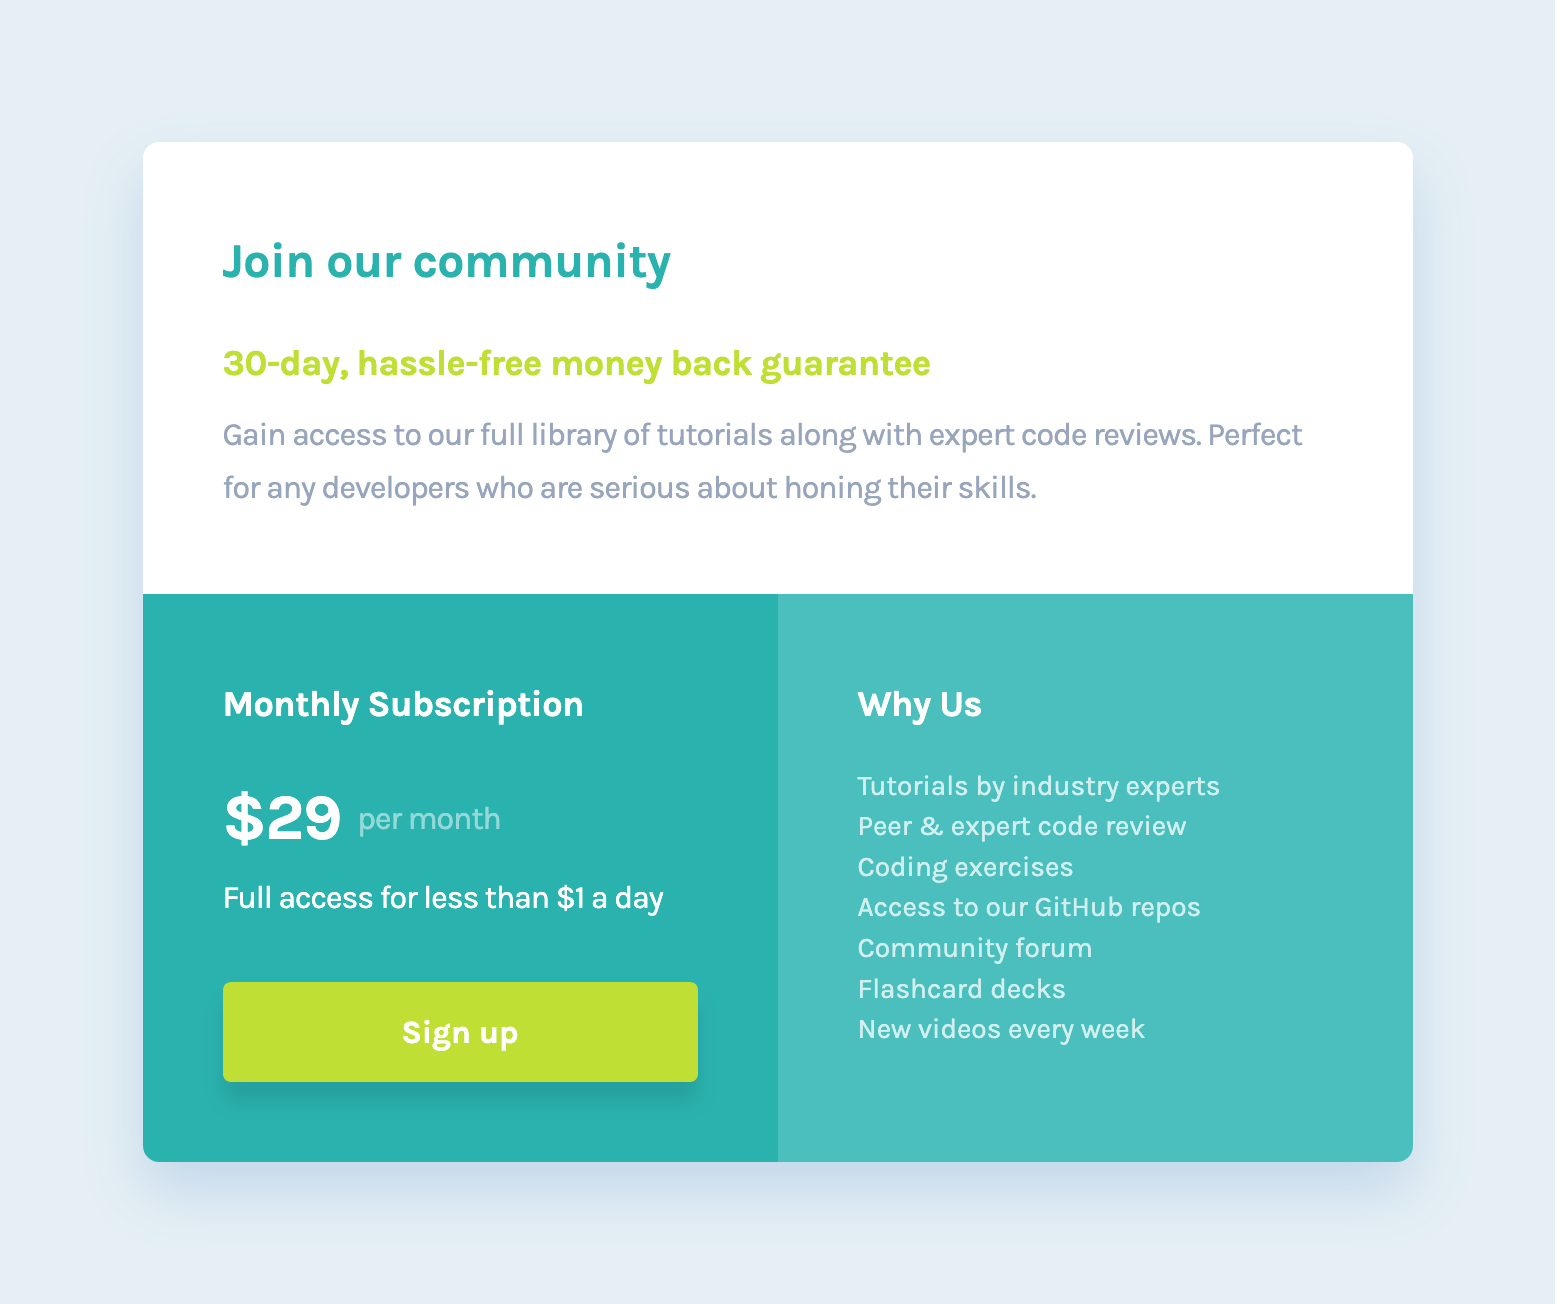
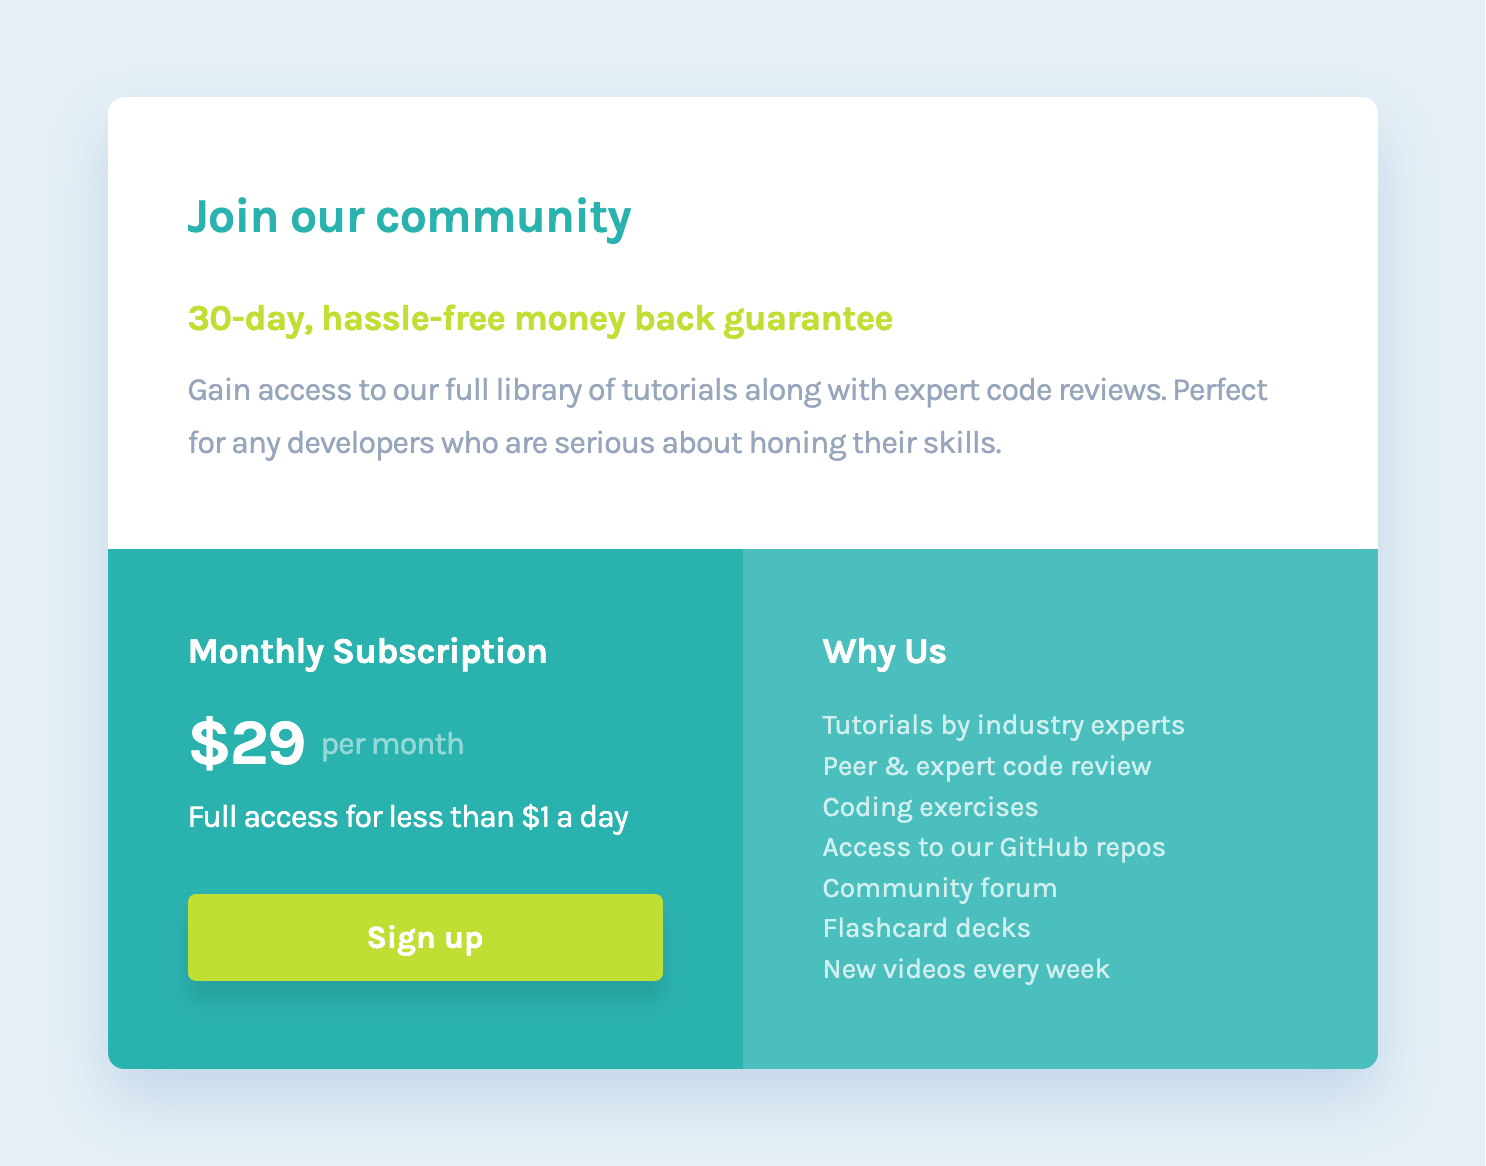
remove body line-height and update screenshot

diff --git a/style.css b/style.css
@@ -69,7 +69,6 @@ body {
   color: var(--clr-neutral-500);
   font-family: var(--ff-base);
   font-weight: var(--fw-regular);
-  line-height: 1.65;
   letter-spacing: var(--ls-tightest);
 }
 
@@ -105,6 +104,7 @@ body {
   grid-column: 1 / -1;
   padding-block: var(--spacing-500);
   background-color: var(--clr-neutral-100);
+  line-height: 1.65;
 }
 
 .product-grid__heading {
@@ -141,6 +141,7 @@ body {
   display: flex;
   align-items: center;
   gap: 0.5rem;
+  margin-block-end: var(--spacing-100);
 }
 
 .product-grid__price-amount {
